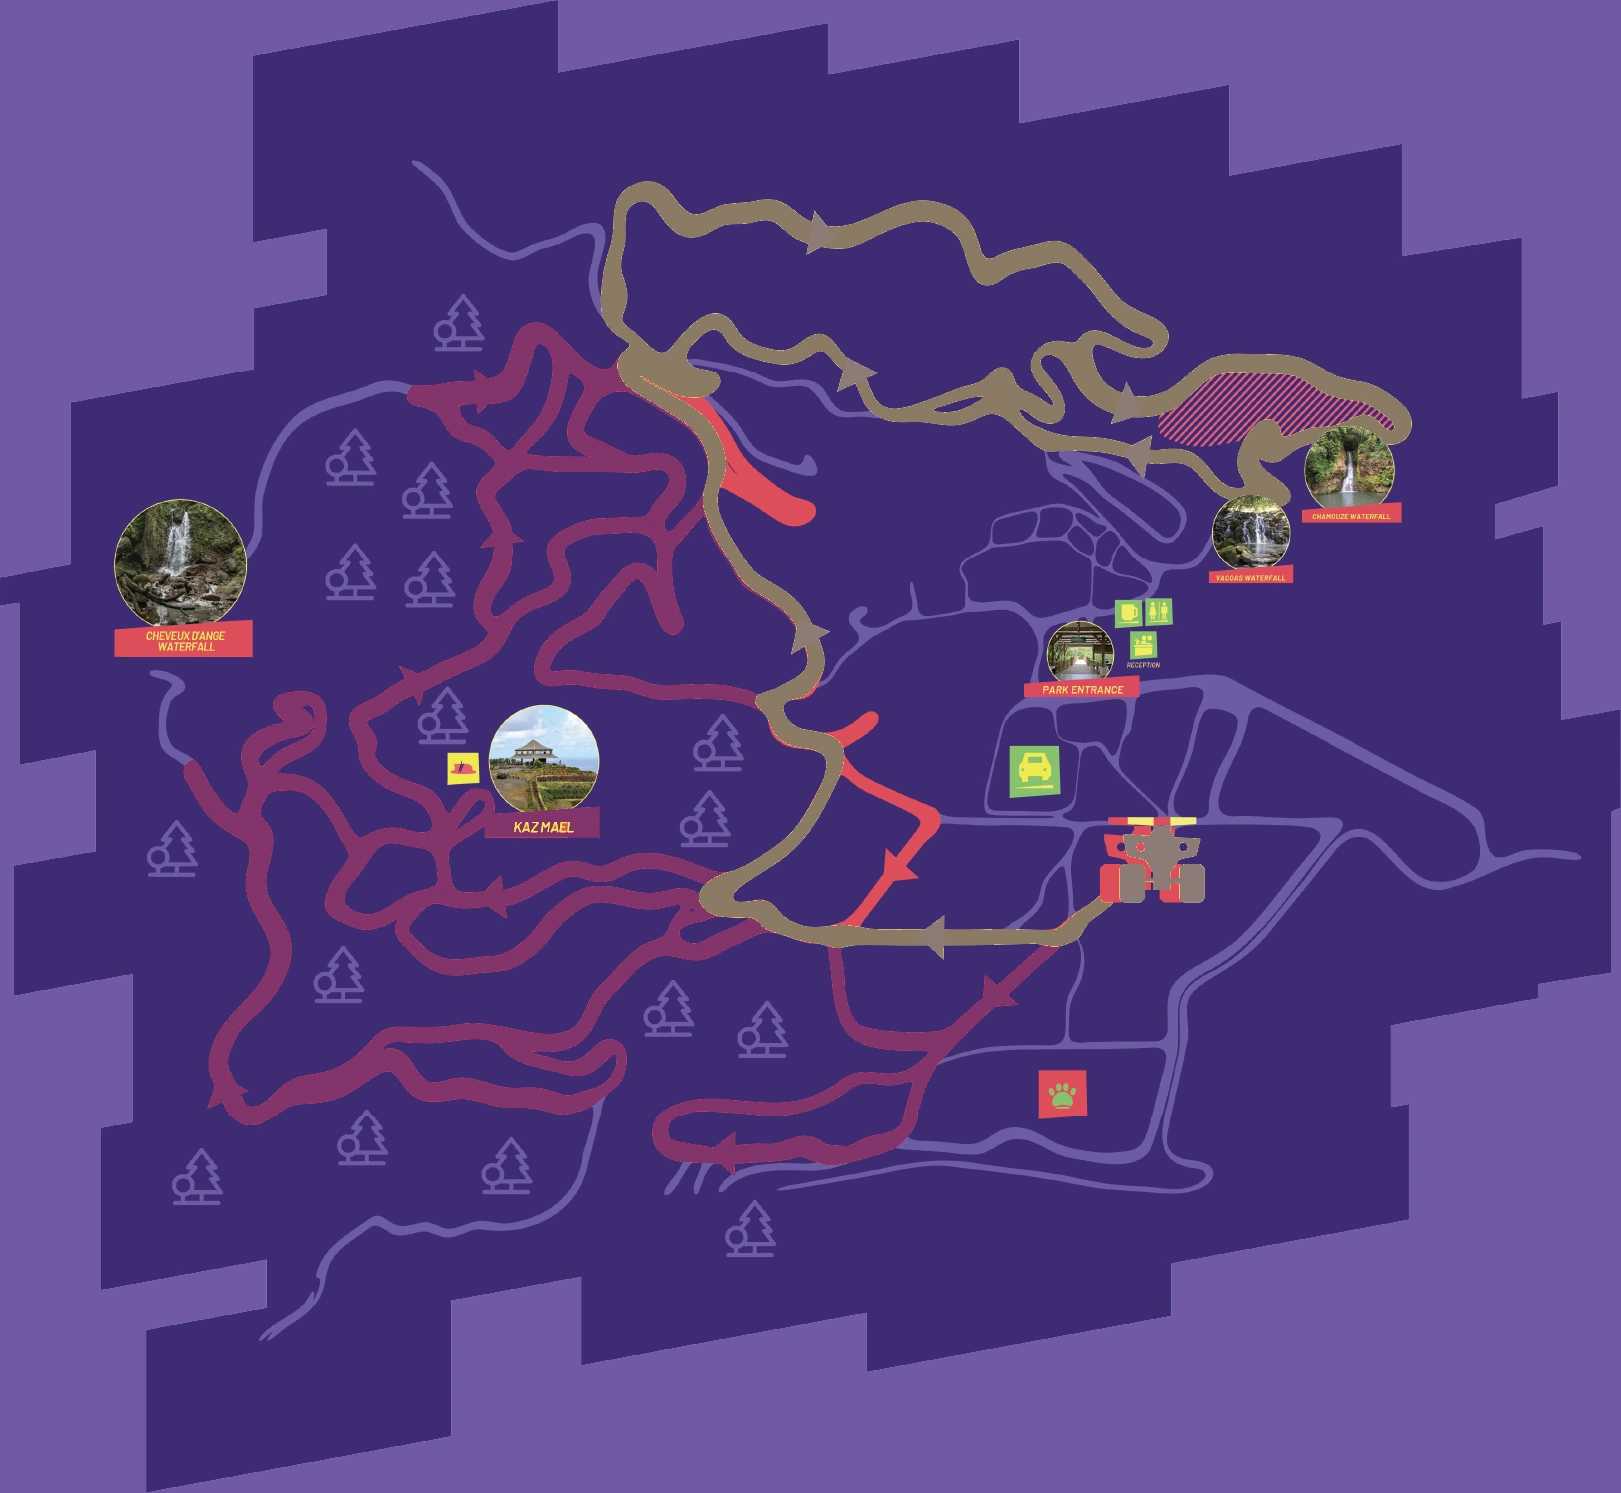
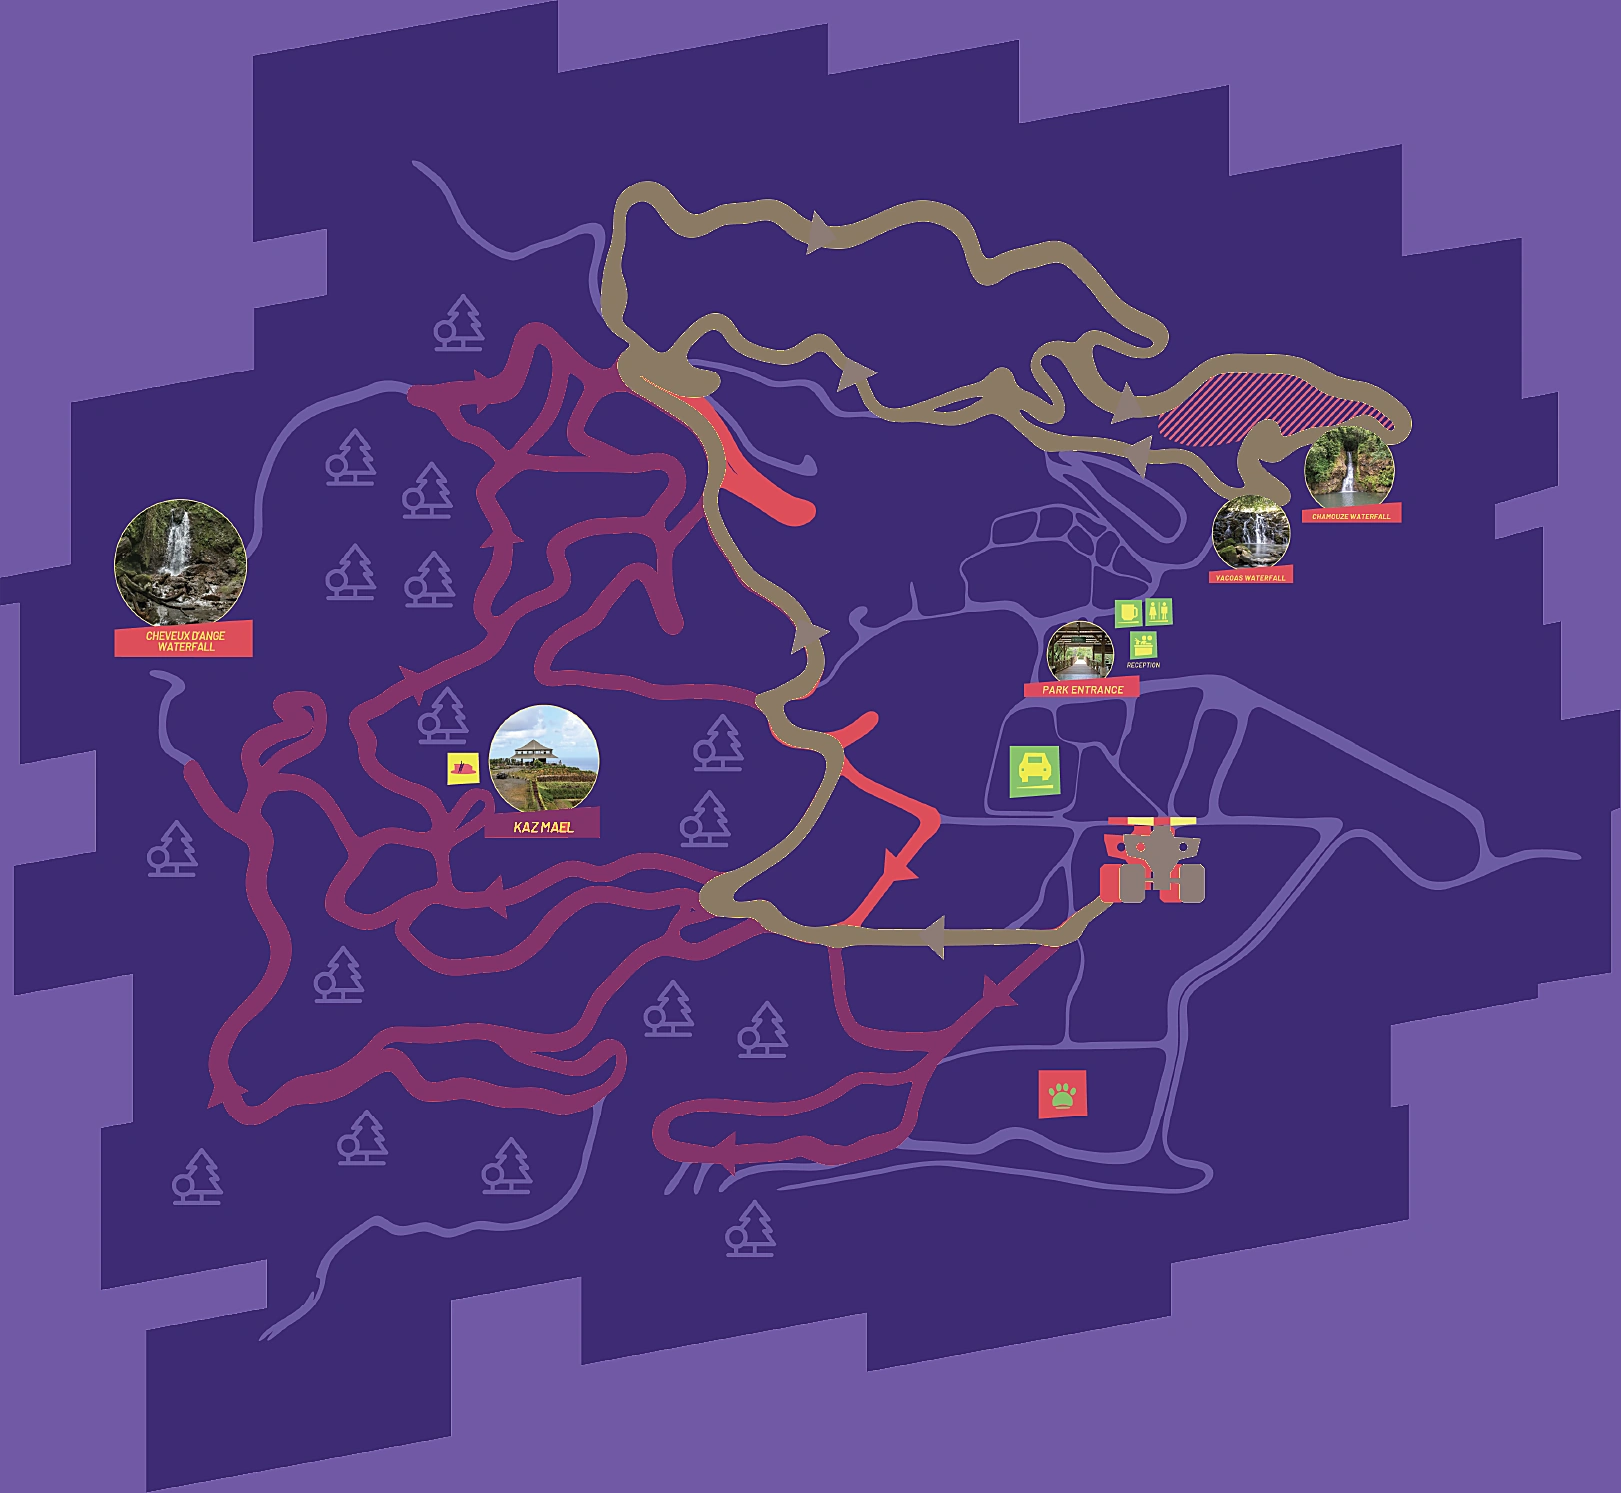
Activity maps: single-layer rendering, zoom and pan, sharpened quad artwork
- The map and every overlay now live in one SVG so all layers sample
  identically; the trail glow and the sheen overlay are gone, so the
  reveal shows only the printed artwork.
- Zoom (1x to 3x) with drag-to-pan and reset, pins and popups keep their
  size, so the small labels of the original map are readable.
- Quad map exports get a light unsharp mask to counter the downscale.

diff --git a/src/pages/home/ActivityMap.tsx b/src/pages/home/ActivityMap.tsx
@@ -1,4 +1,4 @@
-import { useEffect, useMemo, useState, type CSSProperties } from 'react';
+import { useEffect, useMemo, useRef, useState, type CSSProperties, type PointerEvent as RPointerEvent } from 'react';
 import { useCatalog } from '../../store/CatalogContext';
 import { useApp } from '../../store/AppStore';
 import { useGoto } from '../../lib/nav';
@@ -91,11 +91,55 @@ function useBookables() {
   };
 }
 
+/** Zoom + drag-to-pan for the map. Pan is clamped so the map always fills the frame. */
+function useMapZoom() {
+  const [zoom, setZoomState] = useState(1);
+  const [pan, setPan] = useState({ x: 0, y: 0 });
+  const [dragging, setDragging] = useState(false);
+  const frame = useRef<HTMLDivElement | null>(null);
+  const drag = useRef<{ x: number; y: number; px: number; py: number; moved: boolean } | null>(null);
+  const clamp = (z: number, x: number, y: number) => {
+    const el = frame.current; if (!el) return { x, y };
+    const w = el.clientWidth, h = el.clientHeight;
+    return { x: Math.min(0, Math.max(w - w * z, x)), y: Math.min(0, Math.max(h - h * z, y)) };
+  };
+  const setZoom = (z: number) => {
+    const nz = Math.min(3, Math.max(1, Math.round(z * 4) / 4));
+    const el = frame.current;
+    // keep the frame centre fixed while zooming
+    const cx = el ? el.clientWidth / 2 : 0, cy = el ? el.clientHeight / 2 : 0;
+    setPan((p) => clamp(nz, cx - (cx - p.x) * (nz / zoom), cy - (cy - p.y) * (nz / zoom)));
+    setZoomState(nz);
+  };
+  const reset = () => { setZoomState(1); setPan({ x: 0, y: 0 }); };
+  const onPointerDown = (e: RPointerEvent<HTMLDivElement>) => {
+    if (zoom === 1 || (e.target as HTMLElement).closest('button, aside')) return;
+    drag.current = { x: e.clientX, y: e.clientY, px: pan.x, py: pan.y, moved: false };
+    setDragging(true);
+    (e.currentTarget as HTMLElement).setPointerCapture(e.pointerId);
+  };
+  const onPointerMove = (e: RPointerEvent<HTMLDivElement>) => {
+    const d = drag.current; if (!d) return;
+    const dx = e.clientX - d.x, dy = e.clientY - d.y;
+    if (Math.abs(dx) + Math.abs(dy) > 3) d.moved = true;
+    setPan(clamp(zoom, d.px + dx, d.py + dy));
+  };
+  const onPointerUp = () => { drag.current = null; setDragging(false); };
+  return { zoom, pan, dragging, frame, setZoom, reset, bind: { onPointerDown, onPointerMove, onPointerUp, onPointerCancel: onPointerUp } };
+}
+
 function Pulse({ n, color = '#FFFC33', size = 13 }: { n: number; color?: string; size?: number }) {
   return (
     <span style={{ fontSize: size, letterSpacing: '.18em', color, fontWeight: 700 }} title={PULSE_NAMES[n] + ' pulse'}>
       {'●'.repeat(n)}<span style={{ opacity: 0.35 }}>{'○'.repeat(5 - n)}</span>
     </span>
+  );
+}
+
+function ZoomBtn({ label, title, onClick }: { label: string; title: string; onClick: () => void }) {
+  const [h, bind] = useHover();
+  return (
+    <button {...bind} onClick={onClick} title={title} aria-label={title} style={{ ...GLASS, width: 34, height: 34, borderRadius: 999, cursor: 'pointer', fontSize: 18, lineHeight: 1, padding: 0, display: 'flex', alignItems: 'center', justifyContent: 'center', background: h ? 'rgba(255,255,255,.22)' : GLASS.background }}>{label}</button>
   );
 }
 
@@ -346,6 +390,7 @@ export function ActivityMap({ eyebrow, title, intro, map, alt, routes, pins, dra
   const [routeId, setRouteId] = useState(defaultRoute || routes[0].id);
   const [sel, setSel] = useState<string>('');     // selected pin code
   const [shot, setShot] = useState(-1);
+  const mz = useMapZoom();
 
   const route = routes.find((r) => r.id === routeId) || routes[0];
   const options = bookables(route);
@@ -463,19 +508,11 @@ export function ActivityMap({ eyebrow, title, intro, map, alt, routes, pins, dra
 
         <div data-reveal="1" style={{ marginTop: 16 }}>
           <div style={{ position: 'relative', background: '#2E0A4E', border: '1px solid rgba(255,255,255,.16)', borderRadius: 22, padding: 'clamp(10px,1.5vw,20px)', boxShadow: '0 40px 90px -40px rgba(0,0,0,.55)' }}>
-            <div style={{ position: 'relative', overflow: 'hidden', borderRadius: 12 }}>
-              <div style={{ position: 'relative' }}>
-                <Img
-                  src={map.dimImg || map.img}
-                  alt={alt}
-                  surface="dark"
-                  placeholder="#2E0A4E"
-                  width={map.width}
-                  height={map.height}
-                  style={{ width: '100%', height: 'auto', display: 'block', aspectRatio: `${map.width} / ${map.height}`, objectFit: 'contain' }}
-                />
-                {(drawRoutes || extraLines || trails) && (
-                  <svg key={route.id} viewBox="0 0 100 100" preserveAspectRatio="none" style={{ position: 'absolute', inset: 0, width: '100%', height: '100%', pointerEvents: 'none' }}>
+            <div ref={mz.frame} {...mz.bind} style={{ position: 'relative', overflow: 'hidden', borderRadius: 12, touchAction: mz.zoom > 1 ? 'none' : 'pan-y', cursor: mz.zoom > 1 ? (mz.dragging ? 'grabbing' : 'grab') : 'default', background: '#2E0A4E' }}>
+              <div style={{ position: 'relative', aspectRatio: `${map.width} / ${map.height}`, transform: `translate(${mz.pan.x}px, ${mz.pan.y}px) scale(${mz.zoom})`, transformOrigin: '0 0', transition: mz.dragging ? 'none' : 'transform .35s ease', willChange: 'transform' }}>
+                {/* The map and every overlay live in ONE svg, so all layers are sampled identically (no double image). */}
+                <svg key={route.id} viewBox="0 0 100 100" preserveAspectRatio="none" role="img" aria-label={alt} style={{ position: 'absolute', inset: 0, width: '100%', height: '100%', pointerEvents: 'none', display: 'block' }}>
+                    <image href={map.dimImg || map.img} x="0" y="0" width="100" height="100" preserveAspectRatio="none" />
                     <defs>
                       <filter id="amglow" x="-20%" y="-20%" width="140%" height="140%">
                         <feGaussianBlur stdDeviation="0.6" />
@@ -507,9 +544,6 @@ export function ActivityMap({ eyebrow, title, intro, map, alt, routes, pins, dra
                               ))}
                             </mask>
                           </defs>
-                          {edges.map((e, i) => (
-                            <polyline key={'glow' + i} points={e.pts.map((p) => p.join(',')).join(' ')} pathLength={1} fill="none" stroke={trailColor(e.id)} strokeOpacity={0.3} filter="url(#amglow)" strokeLinecap="round" strokeLinejoin="round" style={anim(e, isMobile ? 3.4 : 2.8)} />
-                          ))}
                           <image href={map.routeImgs?.[route.id] || map.img} x="0" y="0" width="100" height="100" preserveAspectRatio="none" mask={`url(#${maskId})`} />
                         </>
                       );
@@ -531,7 +565,6 @@ export function ActivityMap({ eyebrow, title, intro, map, alt, routes, pins, dra
                       </>
                     )}
                   </svg>
-                )}
                 {visible.map((p) => {
                   const si = stationIndex(p.n);
                   const label = si >= 0 ? String(si + 1) : p.n;
@@ -543,14 +576,19 @@ export function ActivityMap({ eyebrow, title, intro, map, alt, routes, pins, dra
                       i={0}
                       on={sel === p.n}
                       isMobile={isMobile}
-                      scale={0.72}
+                      scale={0.72 / mz.zoom}
                       onClick={() => setSel((cur) => (cur === p.n ? '' : p.n))}
                     />
                   );
                 })}
+                {popup && <MapPopup p={popup} left={popLeft} top={popTop} transform={popTransform + ` scale(${1 / mz.zoom})`} onClose={() => setSel('')} />}
               </div>
-              <div style={{ position: 'absolute', inset: 0, pointerEvents: 'none', background: 'linear-gradient(115deg, rgba(255,255,255,.1), rgba(255,255,255,0) 46%)', mixBlendMode: 'screen' }} />
-              {popup && <MapPopup p={popup} left={popLeft} top={popTop} transform={popTransform} onClose={() => setSel('')} />}
+              <div style={{ position: 'absolute', left: 12, top: 12, zIndex: 6, display: 'flex', gap: 6 }}>
+                <ZoomBtn label="+" title="Zoom in" onClick={() => mz.setZoom(mz.zoom + 0.5)} />
+                <ZoomBtn label="−" title="Zoom out" onClick={() => mz.setZoom(mz.zoom - 0.5)} />
+                {mz.zoom > 1 && <ZoomBtn label="⟲" title="Reset view" onClick={mz.reset} />}
+                {mz.zoom > 1 && <span style={{ ...GLASS, borderRadius: 999, padding: '0 10px', fontFamily: MONO, fontSize: 10, letterSpacing: '.1em', display: 'flex', alignItems: 'center' }}>{mz.zoom.toFixed(2).replace(/\.?0+$/, '')}× · DRAG TO PAN</span>}
+              </div>
               {!isMobile && <RouteCard route={route} options={options} overlay />}
             </div>
             <div style={{ display: 'flex', justifyContent: 'space-between', gap: 12, flexWrap: 'wrap', alignItems: 'center', padding: '14px 8px 2px', fontFamily: MONO, fontSize: 10.5, letterSpacing: '.08em', color: 'rgba(255,255,255,.7)' }}>

diff --git a/scripts/quad-map-variants.py b/scripts/quad-map-variants.py
@@ -69,8 +69,8 @@ red_col = np.array([np.median(r[red]), np.median(g[red]), np.median(b[red])])
 dark = np.array([58, 30, 120], float)
 
 def save(im_arr, name):
-    im = Image.fromarray(im_arr.astype(np.uint8))
-    im.save(f'public/images/{name}.webp', quality=92, method=6); print(name, im.size)
+    im = Image.fromarray(im_arr.astype(np.uint8)).filter(ImageFilter.UnsharpMask(radius=1.4, percent=70, threshold=2))
+    im.save(f'public/images/{name}.webp', quality=95, method=6); print(name, im.size)
 
 DIM = 0.55   # how far the other loop fades towards the map purple (0 = untouched)
 base = arr.copy()
@@ -82,4 +82,4 @@ adv = np.where((yellow & ~shared)[..., None], arr * (1 - DIM) + dark * DIM, arr)
 adv = np.where(shared[..., None], red_col, adv)
 save(adv, 'quad-map-adventure')
 
-Image.fromarray(arr.astype(np.uint8)).save('public/images/quad-map.webp', quality=92, method=6); print('base', W, H)
+Image.fromarray(arr.astype(np.uint8)).filter(ImageFilter.UnsharpMask(radius=1.4, percent=70, threshold=2)).save('public/images/quad-map.webp', quality=95, method=6); print('base', W, H)
